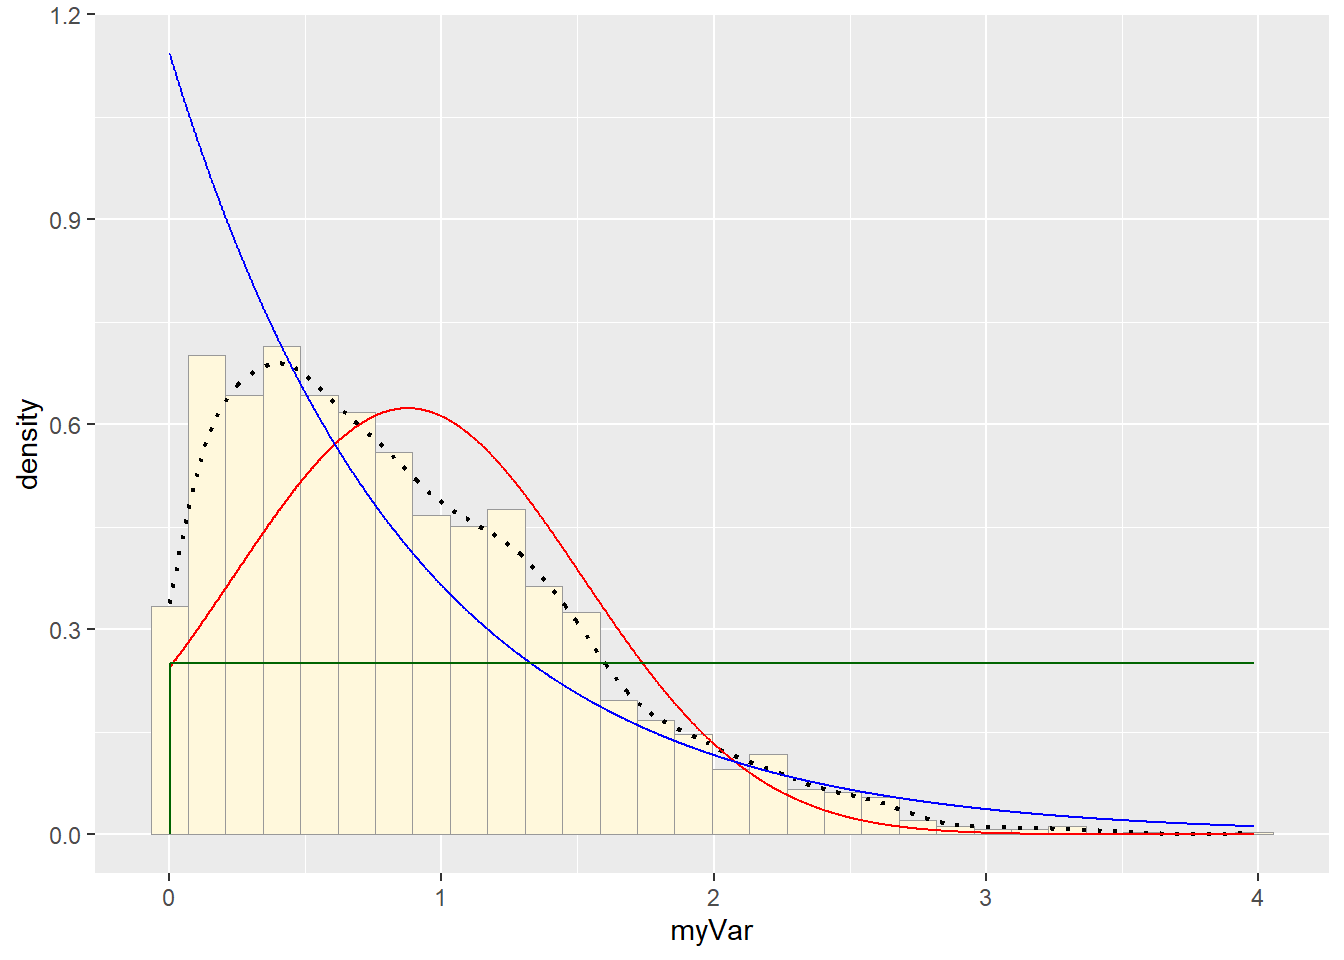
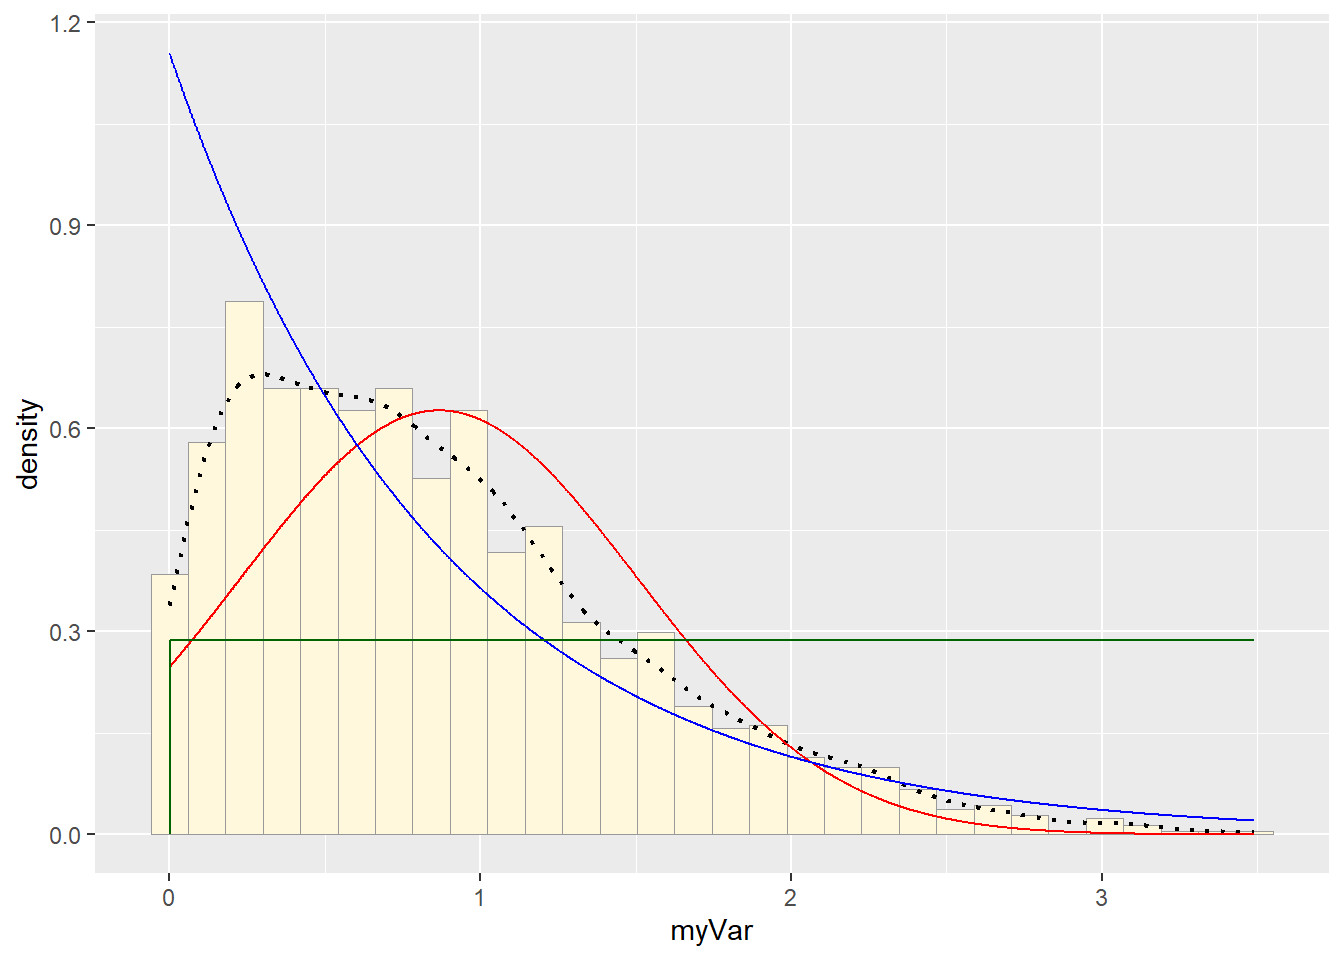
take 2

diff --git a/docs/Homework8.html b/docs/Homework8.html
@@ -361,12 +361,12 @@ z &lt;- data.frame(1:3000,z)
 names(z) &lt;- list(&quot;ID&quot;,&quot;myVar&quot;)
 z &lt;- z[z$myVar&gt;0,]
 str(z)</code></pre>
-<pre><code>## &#39;data.frame&#39;:    1742 obs. of  2 variables:
-##  $ ID   : int  3 4 5 6 7 8 9 11 12 13 ...
-##  $ myVar: num  0.7188 0.2709 0.0471 0.246 1.2861 ...</code></pre>
+<pre><code>## &#39;data.frame&#39;:    1751 obs. of  2 variables:
+##  $ ID   : int  1 3 4 5 7 8 9 11 12 13 ...
+##  $ myVar: num  0.558 1.255 0.677 0.502 1.04 ...</code></pre>
 <pre class="r"><code>summary(z$myVar)</code></pre>
 <pre><code>##     Min.  1st Qu.   Median     Mean  3rd Qu.     Max. 
-## 0.000533 0.374773 0.751185 0.874894 1.262179 3.986793</code></pre>
+## 0.000334 0.364966 0.743118 0.866502 1.204638 3.490032</code></pre>
 <pre class="r"><code># plot histogram of data 
 p1 &lt;- ggplot(data=z, aes(x=myVar, y=..density..)) +
   geom_histogram(color=&quot;grey60&quot;,fill=&quot;cornsilk&quot;, linewidth=0.2) 
@@ -392,24 +392,24 @@ p1 &lt;-  p1 +  geom_density(linetype=&quot;dotted&quot;,size=0.75)</code></pre>
 normPars &lt;- fitdistr(z$myVar,&quot;normal&quot;)
 print(normPars)</code></pre>
 <pre><code>##       mean          sd    
-##   0.87489446   0.63961020 
-##  (0.01532468) (0.01083618)</code></pre>
+##   0.86650190   0.63678077 
+##  (0.01521762) (0.01076049)</code></pre>
 <pre class="r"><code>str(normPars)</code></pre>
 <pre><code>## List of 5
-##  $ estimate: Named num [1:2] 0.875 0.64
+##  $ estimate: Named num [1:2] 0.867 0.637
 ##   ..- attr(*, &quot;names&quot;)= chr [1:2] &quot;mean&quot; &quot;sd&quot;
-##  $ sd      : Named num [1:2] 0.0153 0.0108
+##  $ sd      : Named num [1:2] 0.0152 0.0108
 ##   ..- attr(*, &quot;names&quot;)= chr [1:2] &quot;mean&quot; &quot;sd&quot;
-##  $ vcov    : num [1:2, 1:2] 0.000235 0 0 0.000117
+##  $ vcov    : num [1:2, 1:2] 0.000232 0 0 0.000116
 ##   ..- attr(*, &quot;dimnames&quot;)=List of 2
 ##   .. ..$ : chr [1:2] &quot;mean&quot; &quot;sd&quot;
 ##   .. ..$ : chr [1:2] &quot;mean&quot; &quot;sd&quot;
-##  $ n       : int 1742
-##  $ loglik  : num -1693
+##  $ n       : int 1751
+##  $ loglik  : num -1694
 ##  - attr(*, &quot;class&quot;)= chr &quot;fitdistr&quot;</code></pre>
 <pre class="r"><code>normPars$estimate[&quot;mean&quot;] # note structure of getting a named attribute</code></pre>
 <pre><code>##      mean 
-## 0.8748945</code></pre>
+## 0.8665019</code></pre>
 <pre class="r"><code># plot normal probability density
 meanML &lt;- normPars$estimate[&quot;mean&quot;]
 sdML &lt;- normPars$estimate[&quot;sd&quot;]
@@ -457,7 +457,6 @@ pSpecial &lt;- ggplot(data=z, aes(x=myVar/(max(myVar + 0.1)), y=..density..)) +
 
 betaPars &lt;- fitdistr(x=z$myVar/max(z$myVar + 0.1),start=list(shape1=1,shape2=2),&quot;beta&quot;)</code></pre>
 <pre><code>## Warning in densfun(x, parm[1], parm[2], ...): NaNs produced
-## Warning in densfun(x, parm[1], parm[2], ...): NaNs produced
 ## Warning in densfun(x, parm[1], parm[2], ...): NaNs produced
 ## Warning in densfun(x, parm[1], parm[2], ...): NaNs produced
 ## Warning in densfun(x, parm[1], parm[2], ...): NaNs produced</code></pre>
@@ -591,10 +590,10 @@ d &lt;- d[d$height&gt;0,]
 str(d)</code></pre>
 <pre><code>## &#39;data.frame&#39;:    29 obs. of  2 variables:
 ##  $ ID    : int  1 2 3 4 5 6 7 8 9 10 ...
-##  $ height: num  178 179 178 178 178 ...</code></pre>
+##  $ height: num  177 179 179 178 181 ...</code></pre>
 <pre class="r"><code>summary(d$height)</code></pre>
 <pre><code>##    Min. 1st Qu.  Median    Mean 3rd Qu.    Max. 
-##   176.7   178.1   178.5   178.5   179.1   180.2</code></pre>
+##   176.8   177.9   178.8   178.8   179.5   181.0</code></pre>
 <pre class="r"><code># plot histogram of data 
 p1 &lt;- ggplot(data=d, aes(x=height, y=..density..)) +
   geom_histogram(color=&quot;grey60&quot;,fill=&quot;cornsilk&quot;, linewidth=0.2) 
@@ -610,24 +609,24 @@ print(p1)</code></pre>
 normPars &lt;- fitdistr(d$height,&quot;normal&quot;)
 print(normPars)</code></pre>
 <pre><code>##       mean           sd     
-##   178.4980337     0.8345233 
-##  (  0.1549671) (  0.1095783)</code></pre>
+##   178.7727247     1.0352861 
+##  (  0.1922478) (  0.1359397)</code></pre>
 <pre class="r"><code>str(normPars)</code></pre>
 <pre><code>## List of 5
-##  $ estimate: Named num [1:2] 178.498 0.835
+##  $ estimate: Named num [1:2] 178.77 1.04
 ##   ..- attr(*, &quot;names&quot;)= chr [1:2] &quot;mean&quot; &quot;sd&quot;
-##  $ sd      : Named num [1:2] 0.155 0.11
+##  $ sd      : Named num [1:2] 0.192 0.136
 ##   ..- attr(*, &quot;names&quot;)= chr [1:2] &quot;mean&quot; &quot;sd&quot;
-##  $ vcov    : num [1:2, 1:2] 0.024 0 0 0.012
+##  $ vcov    : num [1:2, 1:2] 0.037 0 0 0.0185
 ##   ..- attr(*, &quot;dimnames&quot;)=List of 2
 ##   .. ..$ : chr [1:2] &quot;mean&quot; &quot;sd&quot;
 ##   .. ..$ : chr [1:2] &quot;mean&quot; &quot;sd&quot;
 ##  $ n       : int 29
-##  $ loglik  : num -35.9
+##  $ loglik  : num -42.2
 ##  - attr(*, &quot;class&quot;)= chr &quot;fitdistr&quot;</code></pre>
 <pre class="r"><code>normPars$estimate[&quot;mean&quot;] # note structure of getting a named attribute</code></pre>
-<pre><code>##    mean 
-## 178.498</code></pre>
+<pre><code>##     mean 
+## 178.7727</code></pre>
 <pre class="r"><code>### Original Plot ###
 z0 &lt;- data.frame(starwars)
 z &lt;- na.omit(starwars)

diff --git a/docs/homework_links.html b/docs/homework_links.html
@@ -353,6 +353,7 @@ div.tocify {
 <p><a href="Homework5.html">Week 5 Homework</a></p>
 <p><a href="Homework6.html">Week 6 Homework</a></p>
 <p><a href="Homework7.html">Week 7 Homework</a></p>
+<p><a href="Homework8.html">Week 8 Homework</a></p>
 
 
 
